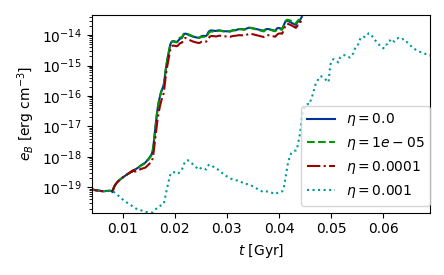
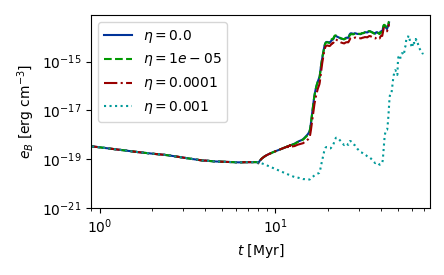
Revised plots

diff --git a/ssdyn_letter.tex b/ssdyn_letter.tex
@@ -737,10 +737,28 @@ with varying resolution.
 \caption{
 The volume averaged magnetic energy density for models with resolution
 between 0.5\,pc and 4\,pc are plotted over time.
-Resolution dependant hyper-resistivity, hyper-viscosity and shock-capturing
-viscosity apply for numerical stability.
-Resistivity, $\eta=10^{-4}$\,kpc\,km\,s$^{-1}$ in panel {\bf(a)} and $10^{-3}$
-{\bf(b)}, is also included.
+The right axis indicates the magnetic energy density in terms of the
+ time-averaged statistical-steady kinetic energy density.
+%Resolution dependant hyper-resistivity, hyper-viscosity and shock-capturing
+%viscosity apply for numerical stability.
+Resistivity, $\eta=10^{-4}$\,kpc\,km\,s$^{-1}$ in panel {\rm(a)} and $10^{-3}$
+{\rm(b)}, is applied.
+\label{fig:eb-res}}
+\end{figure*}
+
+\begin{figure*}[ht!]
+\gridline{\fig{figs/eB-res-4etab.png}{0.43\textwidth}{(a)}
+          \fig{figs/eB-res-3etab.png}{0.43\textwidth}{(b)}
+          }
+\caption{
+The volume averaged magnetic energy density for models with resolution
+between 0.5\,pc and 4\,pc are plotted over time.
+The right axis indicates the magnetic energy density in terms of the
+ time-averaged statistical-steady kinetic energy density.
+%Resolution dependant hyper-resistivity, hyper-viscosity and shock-capturing
+%viscosity apply for numerical stability.
+Resistivity, $\eta=10^{-4}$\,kpc\,km\,s$^{-1}$ in panel {\rm(a)} and $10^{-3}$
+{\rm(b)}, is applied.
 \label{fig:eb-res}}
 \end{figure*}
 
@@ -756,13 +774,25 @@ Resistivity, $\eta=10^{-4}$\,kpc\,km\,s$^{-1}$ in panel {\bf(a)} and $10^{-3}$
           \fig{figs/2pc-eB-nu5.png}{0.43\textwidth}{(e)}
           \fig{figs/4pc-eB-nu6.png}{0.43\textwidth}{(f)}
           }
+  \begin{picture}(0,0)(0,0)
+    \put(130,488){\begin{scriptsize}{\sf{$\delta x=0.5$pc}}\end{scriptsize}}
+    \put(390,488){\begin{scriptsize}{\sf{$\delta x=1.0$pc}}\end{scriptsize}}
+    \put(130,320){\begin{scriptsize}{\sf{$\delta x=2.0$pc}}\end{scriptsize}}
+    \put(390,320){\begin{scriptsize}{\sf{$\delta x=4.0$pc}}\end{scriptsize}}
+    \put(130,152){\begin{scriptsize}{\sf{$\delta x=2.0$pc}}\end{scriptsize}}
+    \put(390,152){\begin{scriptsize}{\sf{$\delta x=4.0$pc}}\end{scriptsize}}
+  \end{picture}
 \caption{
-For each resolution the effect of $\eta$ is compared, {\bf(a)} 0.5\,pc, {\bf(b)}
-1\,pc, {\bf(c)} and {\bf(d)} 2\,pc, and {\bf(e)} and {\bf(f)} 4\,pc.
-All models have supernova rate $0.2\sigma_{\rm SN}$, except {\bf(d)} and
-{\bf(f)}, which have $\sigma_{\rm SN}$.
+For each resolution, {\rm(a)} 0.5\,pc, {\rm(b)}
+1\,pc, {\rm(c)} and {\rm(e)} 2\,pc, and {\rm(d)} and {\rm(f)} 4\,pc the effect
+ of resistivity $\eta$ is compared.
+All models have supernova rate $\sigma=0.2\sigma_{\rm SN}$, except {\rm(e)} and
+{\rm(f)}, which have $\sigma=\sigma_{\rm SN}$, where
 $\sigma_{\rm SN}\simeq 50$\,kpc$^{-3}$\,Myr$^{-1}$ is the solar neighbourhood
 equivalent random SN frequency.
+At 4\,pc resolution the models with $\eta=10^{-4}$\,kpc\,km\,s$^{-1}$ are 
+continued until the dynamo has saturated, for comparison with the higher 
+resolution saturation levels.
 \label{fig:eb-nu}}
 \end{figure*}
 Authors can include a wide number of different graphics with their articles
@@ -834,35 +864,41 @@ figure constructed with six individual EPS files using the
           \fig{figs/0_5pcPm0e-3_0kpower.png}{0.43\textwidth}{(d)}
           }
 \caption{
-Magentic (a) and kinetic (b) energy spectra evolving over time
+Magentic (a) and kinetic (b) compensated energy spectra evolving over time
 for 0.5\,pc resolution
 with Rm super critical for dynamo($\eta=10^{-4}$) and 
 (c) and (d) respective energy spectra
 with Rm sub critical or marginal for dynamo ($\eta=10^{-3}$).
+Magnetic energy spectra are compensated for Kazentsev $k^{3/2}$ and kinetic
+for Kolmogorov $k^{-5/3}$ theoretical profiles, each represented by the 
+horizontal black dashed lines.
 \label{fig:4power}}
 \end{figure*}
 
 \begin{figure*}
-\gridline{\fig{figs/nu0_Bpower.png}{0.43\textwidth}{(a)}
-          \fig{figs/nu0_kpower.png}{0.43\textwidth}{(b)}
+\gridline{ \fig{figs/nu0_Bpower.png}{0.4\textwidth}{(a)}
+           \fig{figs/nu0_kpower.png}{0.4\textwidth}{(b)}
           }
-\gridline{\fig{figs/nu10_Bpower.png}{0.43\textwidth}{(c)}
-          \fig{figs/nu10_kpower.png}{0.43\textwidth}{(d)}
+\gridline{\fig{figs/nu10_Bpower.png}{0.4\textwidth}{(c)}
+          \fig{figs/nu10_kpower.png}{0.4\textwidth}{(d)}
           }
-\gridline{\fig{figs/nu1_Bpower.png}{0.43\textwidth}{(e)}
-          \fig{figs/nu1_kpower.png}{0.43\textwidth}{(f)}
+\gridline{ \fig{figs/nu1_Bpower.png}{0.4\textwidth}{(e)}
+           \fig{figs/nu1_kpower.png}{0.4\textwidth}{(f)}
           }
-\gridline{\fig{figs/SN_Bpower.png}{0.43\textwidth}{(g)}
-          \fig{figs/SN_kpower.png}{0.43\textwidth}{(h)}
+\gridline{  \fig{figs/SN_Bpower.png}{0.4\textwidth}{(g)}
+            \fig{figs/SN_kpower.png}{0.4\textwidth}{(h)}
           }
 \caption{
-Magentic (left) and kinetic (right) energy spectra at dynamo 
+Magentic (left) and kinetic (right) compensated energy spectra at dynamo 
 saturation (or late time) for each resolution with
 $\eta=0,\,10^{-4}$ and $10^{-3}$ panel pairs (a,b), (c,d) and
 (e,f), respectively.
-Comparison of supernova rate at 2\,pc resolution, in panels (g,h),
+Magnetic energy spectra are compensated for Kazentsev $k^{3/2}$ and kinetic
+for Kolmogorov $k^{-5/3}$ theoretical profiles, each represented by the 
+horizontal black dashed lines.
+Comparison of supernova rate at 2\,pc resolution at 200\,Myr, in panels (g,h),
  $\sigma=0.2\sigma_{\rm SN}$
-and $\sigma_{\rm SN}$ for $\eta=10^{-3}$ and $10^{-3}$.
+and $\sigma=\sigma_{\rm SN}$ for $\eta=10^{-4}$ and $10^{-3}$.
 \label{fig:3power}}
 \end{figure*}
 
